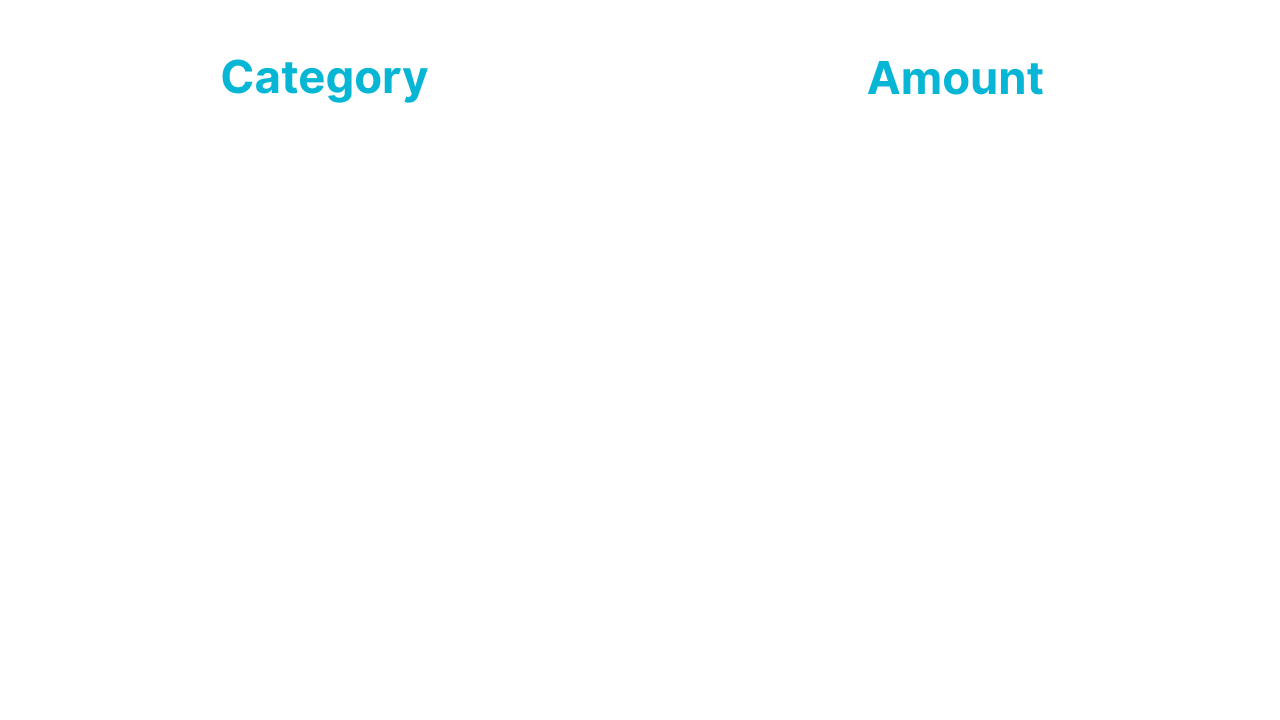
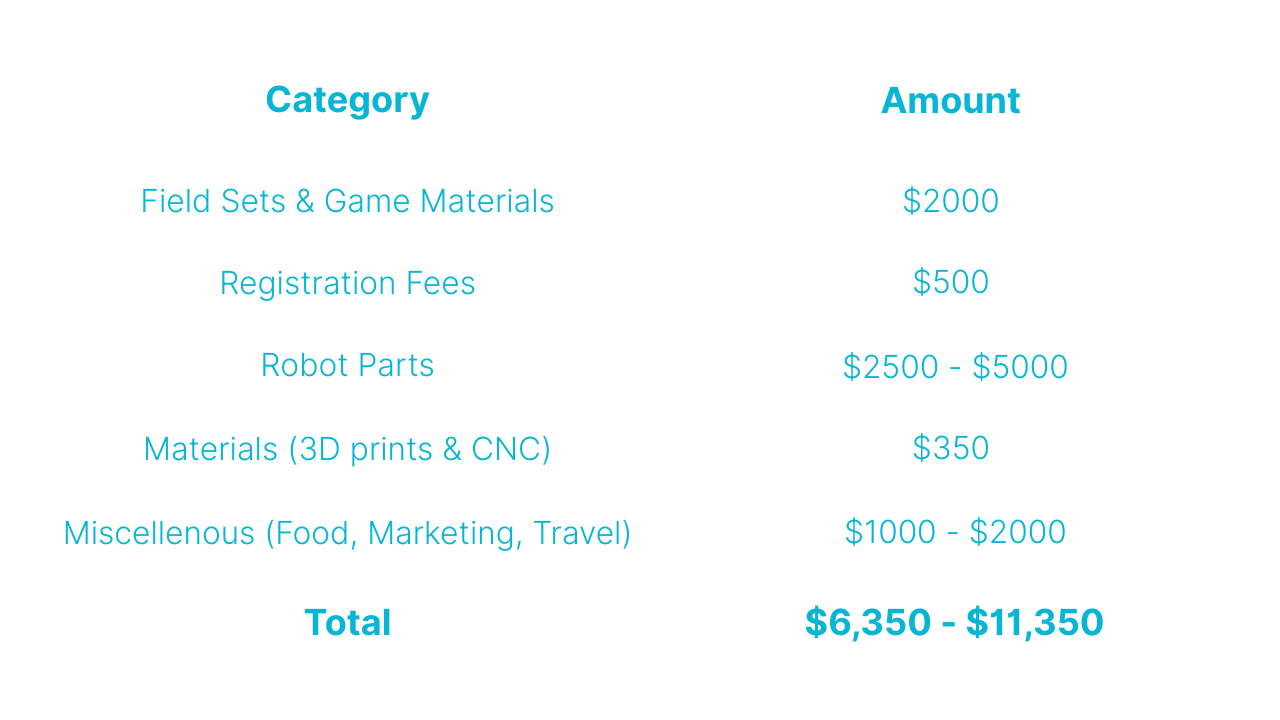
tble

diff --git a/app/page.tsx b/app/page.tsx
@@ -129,6 +129,16 @@ export default function HomePage() {
                   className="flex-shrink-0 w-48 h-24 object-contain transition-transform duration-300 hover:scale-110"
                 />
                 <img
+                  src="/images/polymaker.png"
+                  alt="Polymaker"
+                  className="flex-shrink-0 w-48 h-24 object-contain transition-transform duration-300 hover:scale-110"
+                />
+                <img
+                  src="/images/elks.png"
+                  alt="Elks Lodge"
+                  className="flex-shrink-0 w-48 h-24 object-contain transition-transform duration-300 hover:scale-110"
+                />
+                <img
                   src="/images/Hass.png"
                   alt="Gene Haas Foundation"
                   className="flex-shrink-0 w-48 h-24 object-contain transition-transform duration-300 hover:scale-110"
@@ -156,6 +166,16 @@ export default function HomePage() {
                 <img
                   src="/images/edm.png"
                   alt="EDM Services"
+                  className="flex-shrink-0 w-48 h-24 object-contain transition-transform duration-300 hover:scale-110"
+                />
+                <img
+                  src="/images/polymaker.png"
+                  alt="Polymaker"
+                  className="flex-shrink-0 w-48 h-24 object-contain transition-transform duration-300 hover:scale-110"
+                />
+                <img
+                  src="/images/elks.png"
+                  alt="Elks Lodge"
                   className="flex-shrink-0 w-48 h-24 object-contain transition-transform duration-300 hover:scale-110"
                 />
               </div>

diff --git a/app/sponsors/page.tsx b/app/sponsors/page.tsx
@@ -65,7 +65,7 @@ export default function SponsorsPage() {
 
       <div className="relative z-10 px-8 md:px-16 lg:px-24 py-16">
         <div className="max-w-6xl mx-auto">
-          <div className="text-center mb-16">
+          <div className="text-center mb-16 pl-8">
             <h1 className="text-5xl md:text-6xl font-bold font-sans text-white mb-6">Our Sponsors</h1>
             <p className="text-xl text-white/80 font-sans max-w-3xl mx-auto">
               We are grateful for the support of these incredible organizations who believe in STEM education and the
@@ -119,7 +119,7 @@ export default function SponsorsPage() {
                 <img
                   src="/images/expenses.png"
                   alt="Team Expenses Breakdown"
-                  className="w-full h-auto rounded-lg shadow-lg"
+                  className="w-1920 h-auto rounded-lg shadow-lg"
                 />
               </div>
             </div>
